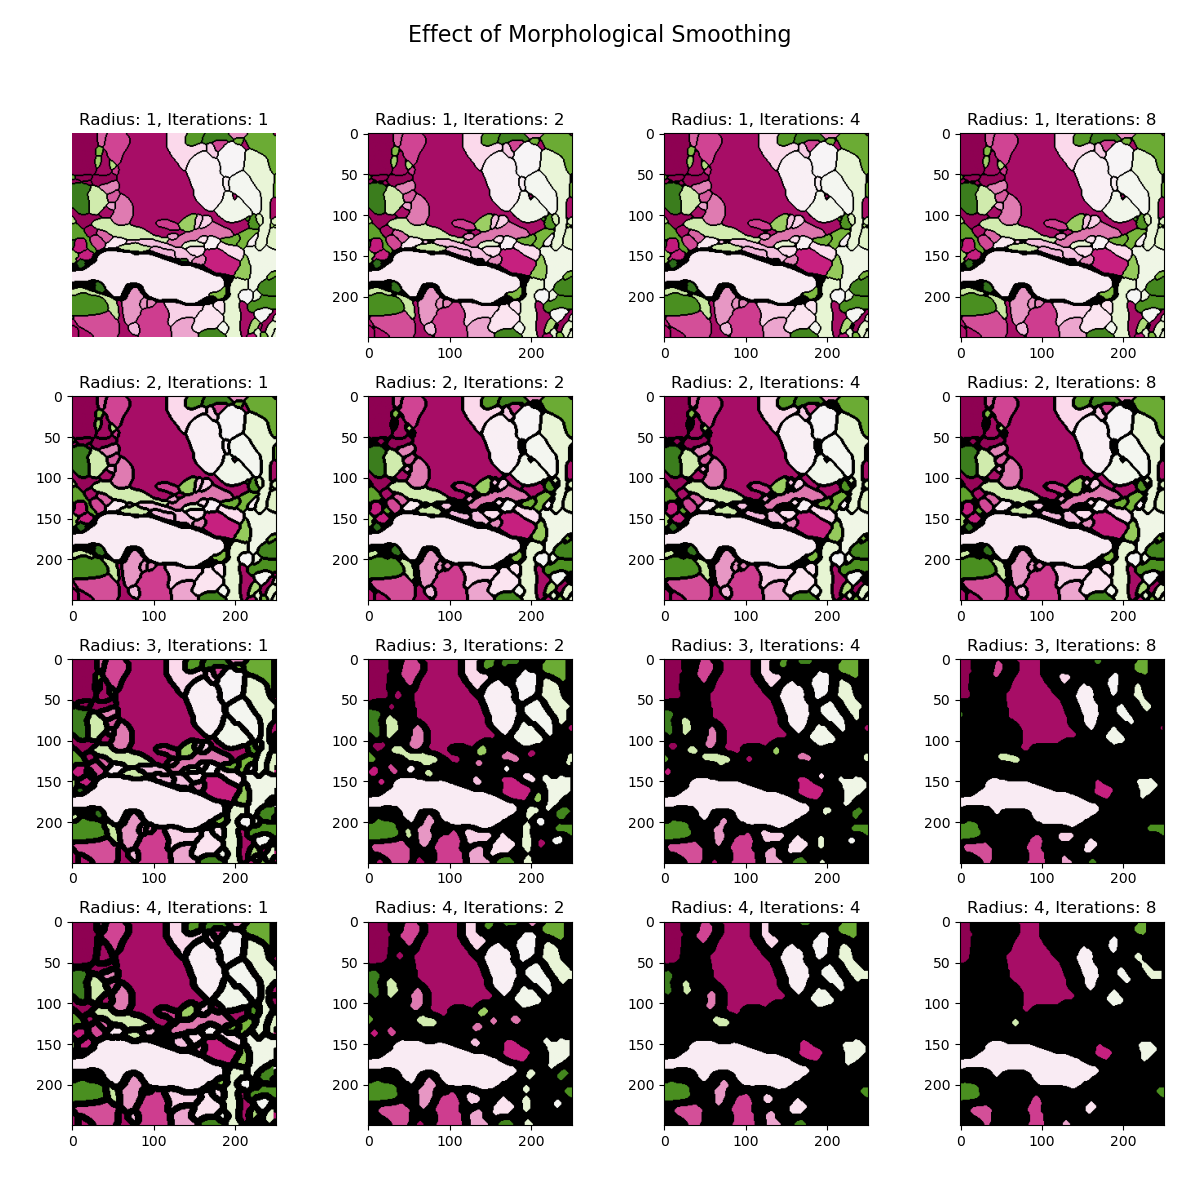
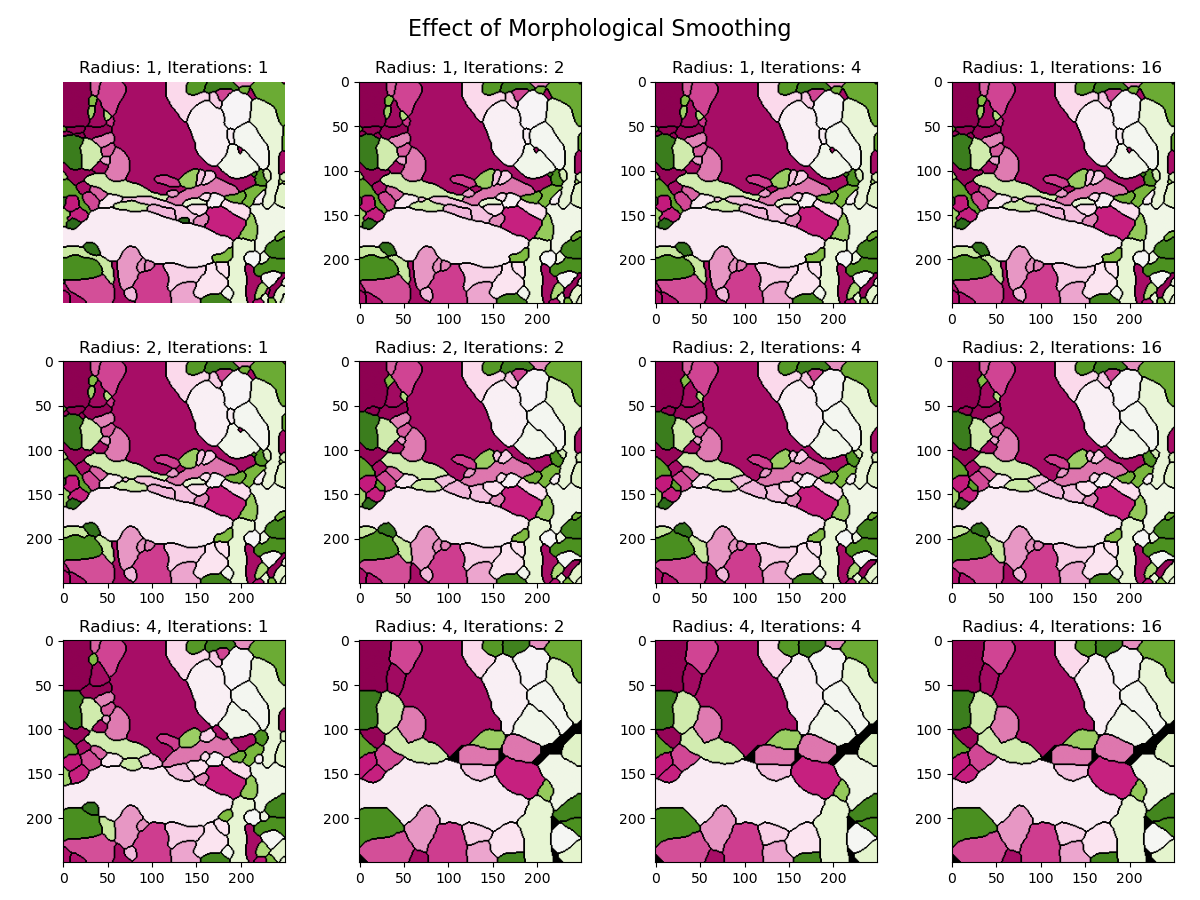
update smoothing

diff --git a/scripts/plot_smoothing_effect.py b/scripts/plot_smoothing_effect.py
@@ -10,17 +10,16 @@ numba.set_num_threads(1)
 print("Loading data...")
 img = np.load("data/dense_cells.npz")["arr_0"][:,:,19:20]
 print(f"Data shape: {img.shape}, dtype: {img.dtype}")
-#img = nbmorph.erode_labels_spherical(img, radius=1)
-# Take a central slice for plotting
+
 slice_index = 0
 img_slice = img[:,:,slice_index].copy()
 
 # Define the grid of parameters
-radii = [1, 2, 3, 4]
-iterations = [1, 2, 4, 8]
+radii = [1, 2, 4]
+iterations = [1, 2, 4, 16]
 
 # Create a 4x4 plot
-fig, axes = plt.subplots(4, 4, figsize=(12, 12))
+fig, axes = plt.subplots(len(radii), len(iterations), figsize=(12, 9))
 fig.suptitle('Effect of Morphological Smoothing', fontsize=16)
 
 # Plot the original slice for reference in the first subplot
@@ -36,9 +35,9 @@ for i, radius in enumerate(radii):
         # Apply morphological smoothing
         smoothed_img = nbmorph.smooth_labels_spherical(
             img, radius=radius, iterations=iteration)
-
-        #smoothed_img = nbmorph.dilate_labels_spherical(smoothed_img, radius=5)
-        #smoothed_img = nbmorph.erode_labels_spherical(smoothed_img, radius=1)
+        
+        smoothed_img = nbmorph.dilate_labels_spherical(smoothed_img, radius=15)
+        smoothed_img = nbmorph.erode_labels_spherical(smoothed_img, radius=1)
 
         # Get the same slice from the smoothed image
         smoothed_slice = smoothed_img[:,:,slice_index]
@@ -52,6 +51,6 @@ for i, radius in enumerate(radii):
         #ax.axis('off')
 
 # Adjust layout and save the plot
-plt.tight_layout(rect=[0, 0.03, 1, 0.95])
+plt.tight_layout(rect=[0, 0.00, 1, 0.99])
 plt.savefig('img/smoothing_effect.png')
 print("Plot saved to smoothing_effect.png")
